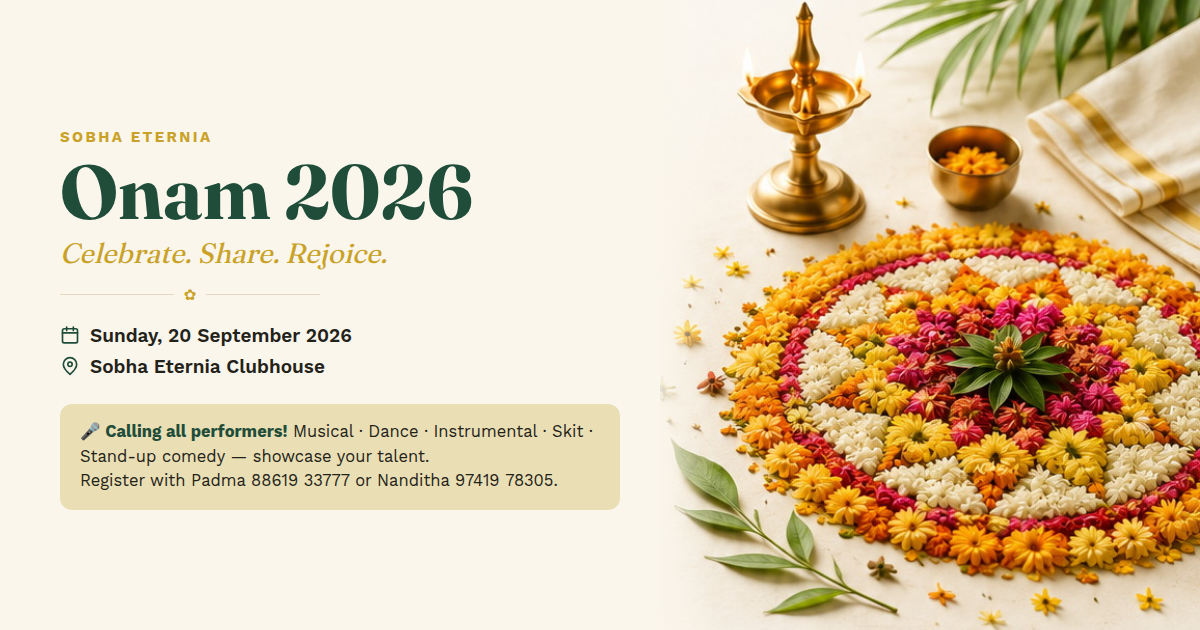
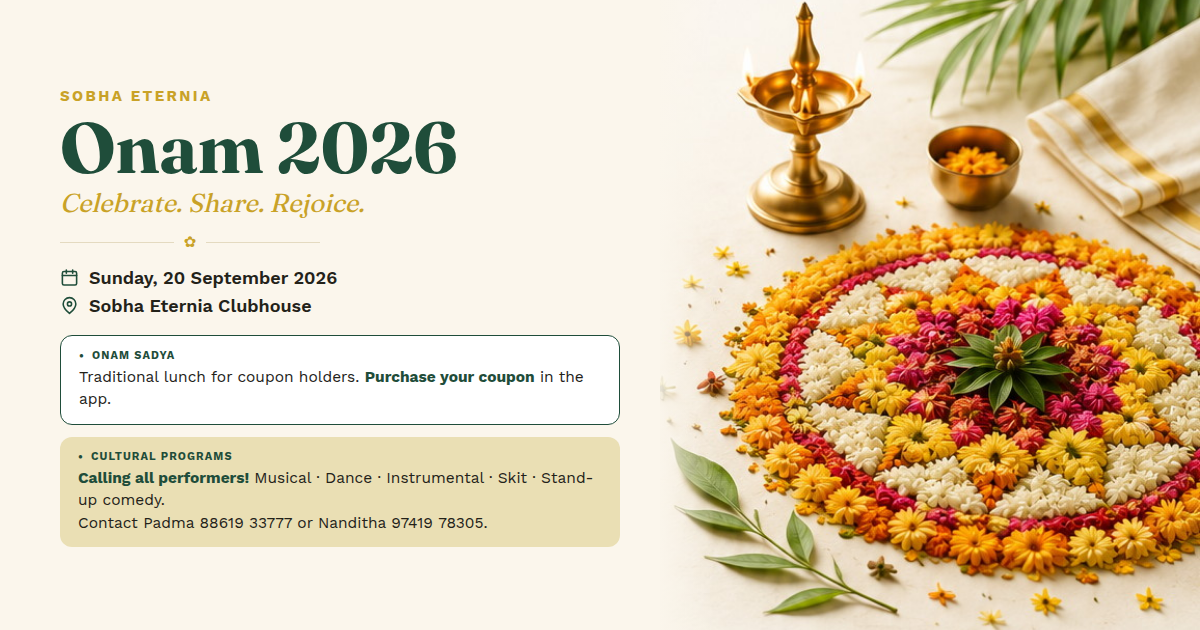
Distinguish Cultural Programs (contact-based) from Onam Sadya coupons
- Rename the coupon-purchase flow's user-facing text away from "Register"
  everywhere it appeared (hero CTA, nav tab, form heading, links, lookup
  empty-state, page title, link-preview meta) to "Purchase Coupons" /
  "Coupons" / "purchase a coupon" — avoids conflating it with cultural-
  program participation.
- Reword the cultural-programs callout to lead with its own "Cultural
  Programs" label and "contact ... to take part" phrasing; coupons are
  now mentioned only in connection with the Sadya lunch, never with
  performing — implying participation is free without saying so.
- Regenerate the WhatsApp link-preview flyer (og-flyer.png) with two
  visually separated sections (Onam Sadya / coupon vs Cultural Programs /
  contact), and drop the emoji glyphs that rendered as tofu in the
  headless-Chrome build environment.

Claude-Session: https://claude.ai/code/session_01CFTqyvGir8QXwcmLaDqnPj

Changed region(s): [[0.0308, 0.1206, 0.5242, 0.8746]]

diff --git a/public/index.html b/public/index.html
@@ -3,7 +3,7 @@
 <head>
 <meta charset="UTF-8">
 <meta name="viewport" content="width=device-width, initial-scale=1.0">
-<title>Onam Sadya 2026 — Registration &amp; Coupons</title>
+<title>Onam Sadya 2026 — Cultural Programs &amp; Coupons</title>
 <!--
   LINK-PREVIEW CARD — what shows up when this URL is shared in WhatsApp/etc.
   The image is a static PNG (public/assets/og-flyer.png), built once from
@@ -13,13 +13,13 @@
 <meta property="og:type" content="website">
 <meta property="og:url" content="https://sobha-eternia-onam-2026.web.app/">
 <meta property="og:title" content="Onam 2026 — Sobha Eternia">
-<meta property="og:description" content="Sunday, 20 Sept 2026 · Sobha Eternia Clubhouse. Calling all performers — musical, dance, instrumental, skit, stand-up comedy! Register with Padma 88619 33777 or Nanditha 97419 78305. Programs 9–11:30am, followed by Onam Sadya lunch for coupon holders. Tap to register & get your QR pass.">
+<meta property="og:description" content="Sunday, 20 Sept 2026 · Sobha Eternia Clubhouse. Cultural programs — musical, dance, instrumental, skit, stand-up comedy! Contact Padma 88619 33777 or Nanditha 97419 78305 to take part. Programs 9–11:30am, followed by Onam Sadya lunch for coupon holders. Tap to purchase your coupon & get your QR pass.">
 <meta property="og:image" content="https://sobha-eternia-onam-2026.web.app/assets/og-flyer.png">
 <meta property="og:image:width" content="1200">
 <meta property="og:image:height" content="630">
 <meta name="twitter:card" content="summary_large_image">
 <meta name="twitter:title" content="Onam 2026 — Sobha Eternia">
-<meta name="twitter:description" content="Cultural programs + registration — tap for details and your QR entry pass.">
+<meta name="twitter:description" content="Cultural programs (contact Padma/Nanditha to take part) + Onam Sadya coupons — tap for details.">
 <meta name="twitter:image" content="https://sobha-eternia-onam-2026.web.app/assets/og-flyer.png">
 <link rel="preconnect" href="https://fonts.googleapis.com">
 <link rel="preconnect" href="https://fonts.gstatic.com" crossorigin>
@@ -89,7 +89,7 @@
   </a>
   <div class="nav">
     <button class="nav-link active" data-tab="home">Home</button>
-    <button class="nav-link" data-tab="register">Register</button>
+    <button class="nav-link" data-tab="register">Coupons</button>
     <button class="nav-link" data-tab="lookup">My QR Pass</button>
   </div>
   <button id="admin-lock" class="lock-btn" type="button" aria-label="Organizer access" title="Organizer access">
@@ -356,12 +356,16 @@ const EVENT_INFO = {
   tagline: 'Celebrate. Share. Rejoice.',
   dateLabel: 'Sunday, 20 September 2026',
   venue: 'Sobha Eternia Clubhouse',
-  lede: 'Join your Sobha Eternia family for a day of traditional Sadya and cultural celebration — a time to come together, share a meal, and make memories that last.'
+  lede: 'Join your Sobha Eternia family for a traditional Kerala Onam Sadya — a time to come together, share a meal, and make memories that last.'
 };
 
-// Call for performers, shown on the Home page hero. Trusted static copy (not user
-// input), so it's inserted as HTML directly — not passed through esc() — to keep the tel: links.
-const CULTURAL_INVITE = 'Inviting participation in cultural programs from Eternia residents (musical, dance, instrumental, skit, standup comedy!) for showcasing diverse talent. For registrations, contact Padma <a href="tel:+918861933777">88619 33777</a> or Nanditha <a href="tel:+919741978305">97419 78305</a>. Programs are planned between 9am and 11:30am, followed by traditional Kerala Onam Sadya (lunch) for those who have purchased coupons.';
+// Call for performers, shown on the Home page hero — deliberately kept separate from
+// the Sadya/coupon copy above: this is about performing (contact Padma/Nanditha),
+// not purchasing, and coupons are mentioned only in connection with the lunch, never
+// this. That's what signals participation itself costs nothing, without saying so.
+// Trusted static copy (not user input), so it's inserted as HTML directly — not
+// passed through esc() — to keep the tel: links.
+const CULTURAL_INVITE = '<span class="cultural-invite-label">Cultural Programs</span>Eternia residents are invited to perform — musical, dance, instrumental, skit, standup comedy! — and showcase their talent. To take part, contact Padma <a href="tel:+918861933777">88619 33777</a> or Nanditha <a href="tel:+919741978305">97419 78305</a>. Programs run 9:00–11:30am, followed by the Onam Sadya lunch for coupon holders.';
 
 // Shown wherever entry-pass QR codes appear (screen + every PDF / WhatsApp message).
 const QR_INFO = 'Your QR code contains your payment status and can be used to redeem entry at the event.';
@@ -384,7 +388,7 @@ function renderHome(){
           <div class="hero-meta-row">${calSvg}<span>${esc(EVENT_INFO.dateLabel)}</span></div>
           <div class="hero-meta-row">${pinSvg}<span>${esc(EVENT_INFO.venue)}</span></div>
         </div>
-        <button class="btn-cta" id="home-register">Register now <span aria-hidden="true">&rarr;</span></button>
+        <button class="btn-cta" id="home-register">Purchase Coupons <span aria-hidden="true">&rarr;</span></button>
         <p class="hero-note">Digital QR Pass &middot; One coupon, one scan, at the door</p>
         <div class="cultural-invite">${CULTURAL_INVITE}</div>
       </div>
@@ -599,7 +603,7 @@ function renderRegister(){
   const el = document.getElementById('tab-register');
   el.innerHTML = `
     <div class="card" id="reg-form">
-      <h2 style="margin-top:0;font-size:19px;">Registration</h2>
+      <h2 style="margin-top:0;font-size:19px;">Purchase Coupons</h2>
       <label>Resident name</label>
       <input id="reg-name" type="text" placeholder="e.g. Anitha Menon">
       <label>Phone number</label>
@@ -673,7 +677,7 @@ function renderRegister(){
         ${upiPayNoteHTML(reg)}
         ${couponActionsHTML()}
         <p class="small-note">Shows as "Payment Pending" until the organizer confirms payment.
-          <a href="#" id="reg-again" style="color:var(--leaf);white-space:nowrap;">Register another →</a></p>
+          <a href="#" id="reg-again" style="color:var(--leaf);white-space:nowrap;">Purchase another →</a></p>
       </div>
       ${couponCardHTML(reg)}`;
     reg.tickets.forEach(t => renderTicketQR(t));
@@ -734,7 +738,7 @@ async function doLookup(){
   }
 
   if(results.length === 0){
-    box.innerHTML = `<div class="empty">No coupon found for "${esc(raw)}". Try your flat number, phone number, coupon number (ONM-0004) or ticket number (ONM-0004-02) — or register first.</div>`;
+    box.innerHTML = `<div class="empty">No coupon found for "${esc(raw)}". Try your flat number, phone number, coupon number (ONM-0004) or ticket number (ONM-0004-02) — or purchase a coupon first.</div>`;
     return;
   }
 

diff --git a/public/styles.css b/public/styles.css
@@ -119,6 +119,10 @@ h1,h2,h3,.display{font-family:var(--font-display);}
   font-size:13px;line-height:1.55;color:var(--ink);max-width:48ch;
 }
 .cultural-invite a{color:var(--leaf);font-weight:700;text-decoration:underline;}
+.cultural-invite-label{
+  display:block;font-size:10px;font-weight:700;text-transform:uppercase;
+  letter-spacing:.1em;color:var(--leaf);margin-bottom:5px;
+}
 /* — Home page: cultural-programme ticker — */
 .sr-only{position:absolute;width:1px;height:1px;padding:0;margin:-1px;overflow:hidden;clip:rect(0 0 0 0);white-space:nowrap;border:0;}
 .ticker[hidden]{display:none;}
